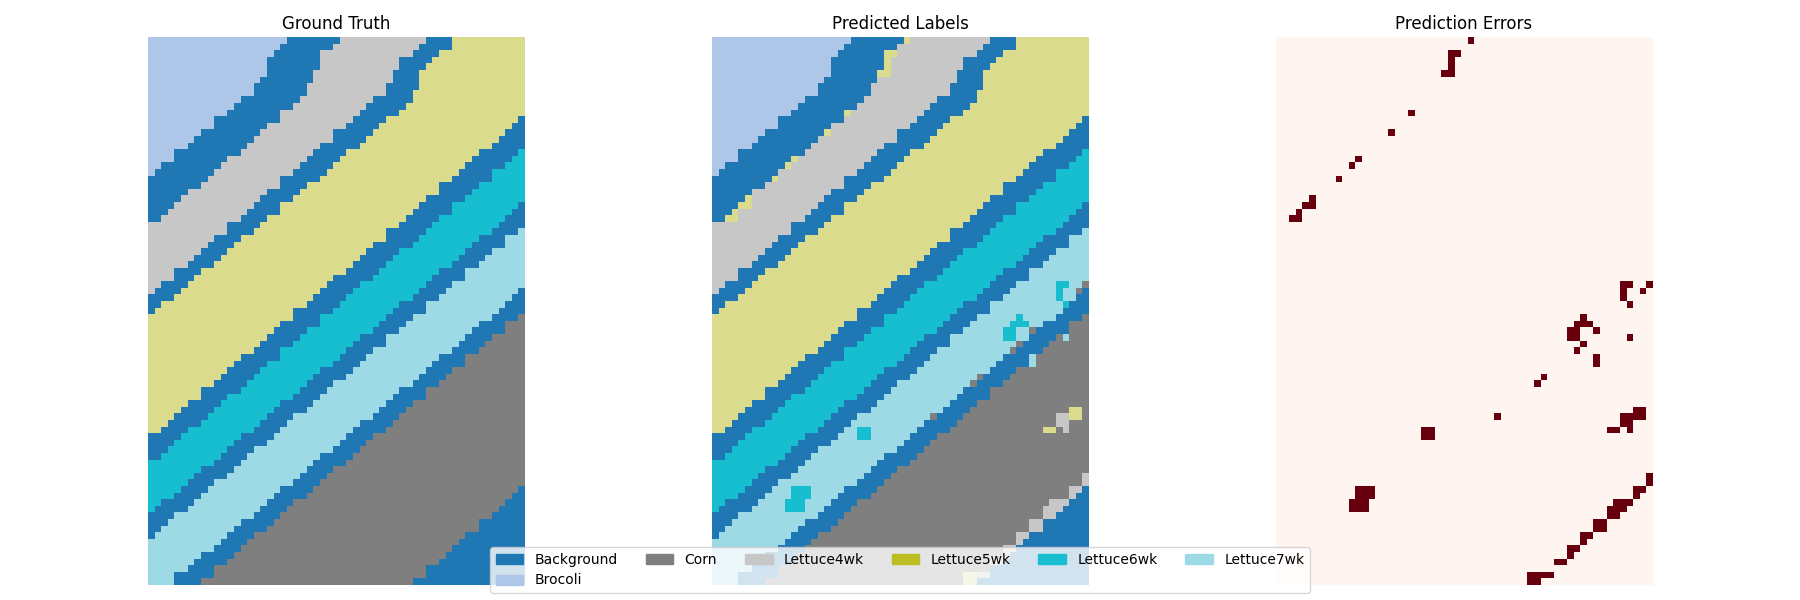
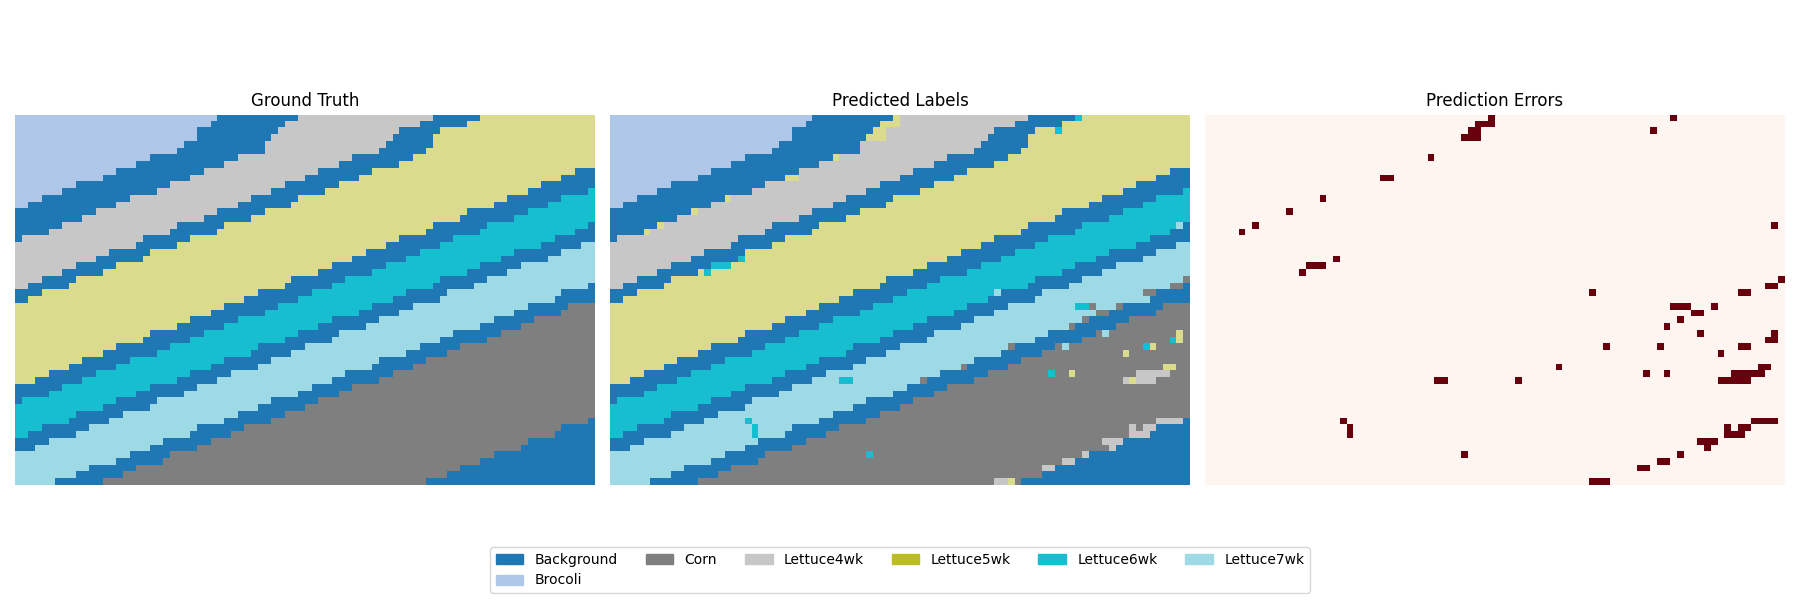
code : correction of recursive algo, going through rows and not columns

diff --git a/ML/MLM_recursive.py b/ML/MLM_recursive.py
@@ -2,21 +2,16 @@ import numpy as np
 import scipy.io
 import matplotlib.pyplot as plt
 import seaborn as sns
-import time
-from scipy.io import loadmat
-from sklearn.model_selection import train_test_split
 from sklearn.metrics import accuracy_score, confusion_matrix
-from sklearn.metrics import euclidean_distances
 import matplotlib.pyplot as plt
 from matplotlib.patches import Patch
 import seaborn as sns
-import os
 
 # --- Load Salinas-A data ---
 def load_salinas_A():
     data = scipy.io.loadmat('ML/SalinasA_corrected.mat')['salinasA_corrected']
     #print(data)
-    #print("Shape of Salinas-A data:", data.shape)
+    print("Shape of Salinas-A data:", data.shape)
     labels = scipy.io.loadmat('ML/SalinasA_gt.mat')['salinasA_gt']
     #print(labels)
     #print("Shape of Salinas-A labels:", labels.shape)
@@ -26,12 +21,12 @@ def load_salinas_A():
     data[~mask_background], labels[~mask_background] = 0, 0
     #print("Data shape after removing background:", data.shape)
     # Separate training and testing data, each 3rd row for training, the others for testing
-    training_data = data[:, ::3, :]
-    training_labels = labels[:, ::3]
-    mask = np.ones(data.shape[1], dtype=bool)
+    training_data = data[::3, :, :]
+    training_labels = labels[::3, :]
+    mask = np.ones(data.shape[0], dtype=bool)
     mask[::3] = False
-    testing_data = data[:, mask, :]
-    testing_labels = labels[:, mask]
+    testing_data = data[mask, :, :]
+    testing_labels = labels[mask, :]
     
     #print("Training data shape:", training_data.shape)
     #print("Testing data shape:", testing_data.shape)
@@ -178,23 +173,22 @@ if __name__ == "__main__":
     num_rows, num_cols = testing_data.shape[0], testing_data.shape[1]
     predictions_array = np.zeros((num_rows, num_cols), dtype=np.uint8)
 
-    #predictions = []
-    for i in range(testing_data.shape[1]):
+    for i in range(testing_data.shape[0]):
         print("Processing row:", i+1)
-        data = testing_data[:,i]
-        label = testing_labels[:,i]
-        for j in range(testing_data.shape[0]):
+        data = testing_data[i,:]
+        label = testing_labels[i,:]
+        for j in range(testing_data.shape[1]):
             if label[j] != 0:
                 pixel, pix_label = reshape_data(data[j], label[j])
                 # Make predictions for the current data point
                 predicted_label = predict_label(pixel, R, T, B)
-                predictions_array[j,i] = predicted_label
+                predictions_array[i,j] = predicted_label
                 #print("Label to predict:", pix_label)
                 #print("Predicted label for pixel:", predicted_label)
                 # Update the RLS model with new data
                 New_distance_out, New_distance_in = build_distance_matrices(pixel, R, pix_label, T)
                 P, B = rls_update(New_distance_out, New_distance_in, P, B)
 
-
+    print(accuracy_score(testing_labels.reshape(-1), predictions_array.reshape(-1)))
     plot_confusion_matrix(testing_labels.reshape(-1), predictions_array.reshape(-1))
     plot_comparison_maps(testing_labels, predictions_array, testing_labels.shape, class_names=class_names, class_colors=class_colors, class_values=class_values)
